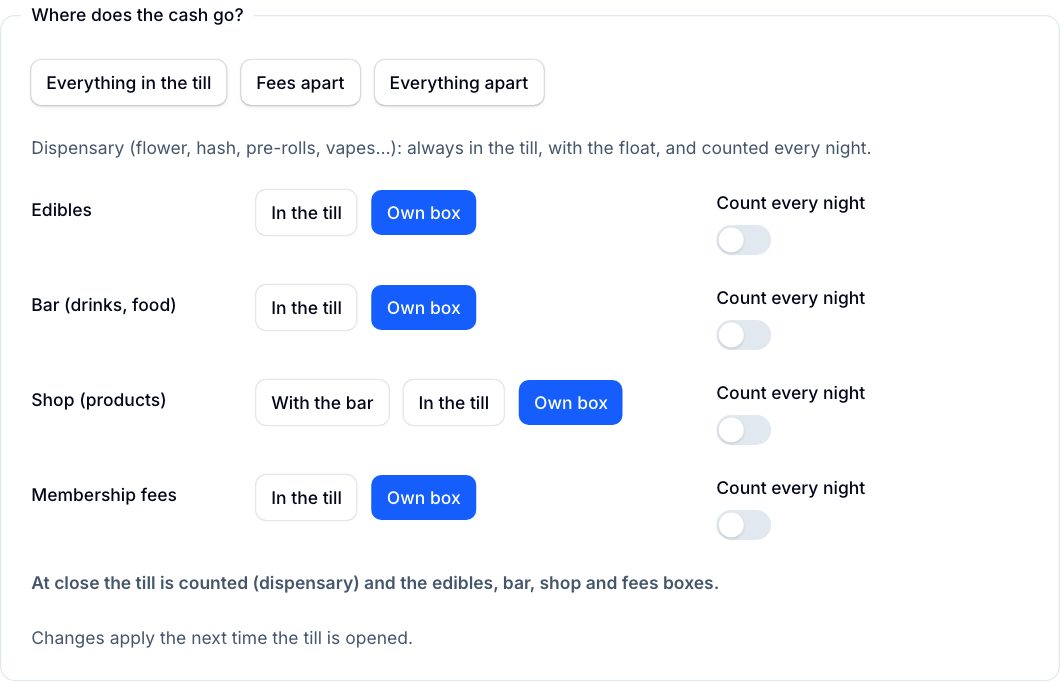
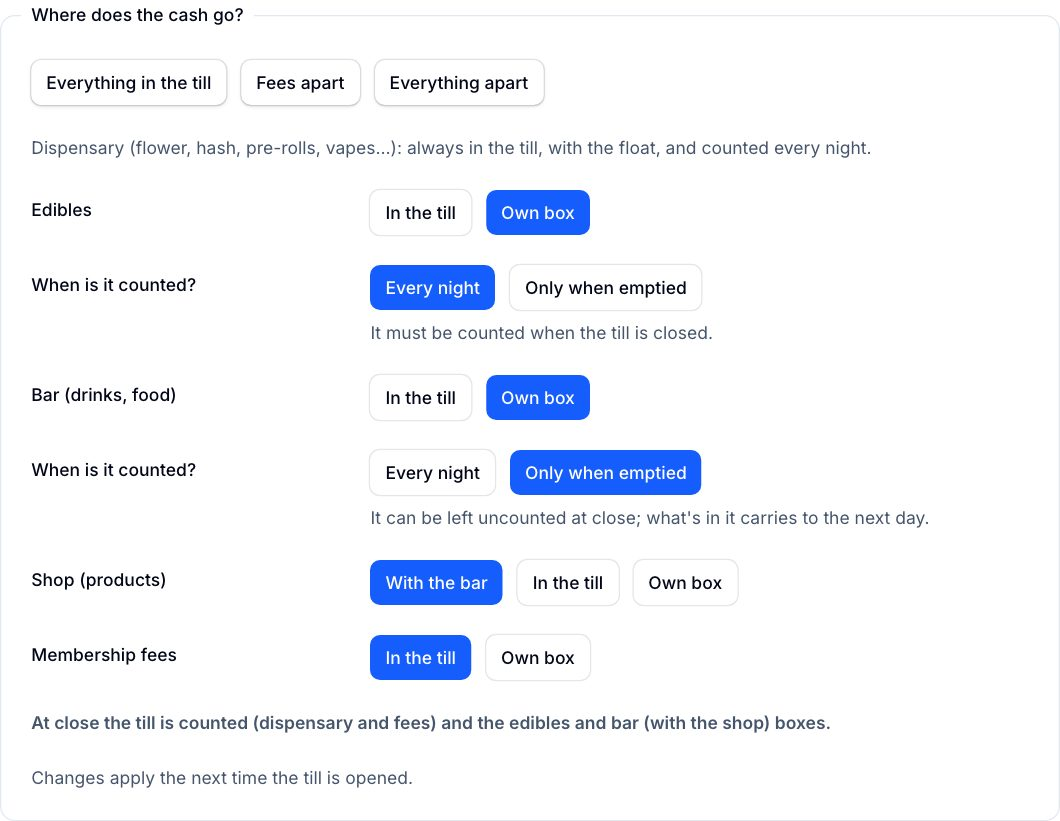
fix(locations): «¿Cuándo se cuenta? Cada noche · Solo al vaciarlo» under each own box, replacing the switch
- the counting choice sits under its row's buttons in the same two-button style, with a line that says what it means;
  hidden for «En la caja» and «Con la barra»; no switch left in the section
- the same count_*_nightly setting underneath (string state '1'/'0' on the buttons, a boolean saved); owner-only
- the close is unchanged and pinned: Cada noche starts on «Contar ahora», Solo al vaciarlo on «No se cuenta hoy»

Claude-Session: https://claude.ai/code/session_01JxcuX4zpbtLwRQJ9oHz38d

diff --git a/tests/Feature/Locations/CashCountChoiceTest.php b/tests/Feature/Locations/CashCountChoiceTest.php
@@ -1,0 +1,135 @@
+<?php
+
+namespace Tests\Feature\Locations;
+
+use App\Actions\Till\OpenTill;
+use App\Enums\Role;
+use App\Enums\SettingType;
+use App\Filament\Resources\Locations\Pages\EditLocation;
+use App\Livewire\Counter\TillSession as TillScreen;
+use App\Models\Location;
+use App\Models\Organisation;
+use App\Models\User;
+use App\Support\ActiveScope;
+use App\Support\CounterOperator;
+use App\Support\Settings;
+use Database\Seeders\RolePermissionSeeder;
+use Filament\Facades\Filament;
+use Filament\Forms\Components\ToggleButtons;
+use Illuminate\Foundation\Testing\RefreshDatabase;
+use Livewire\Livewire;
+use Tests\TestCase;
+
+/**
+ * Prompt 379 — Ben, on Dream Green's *Cajas*: "Toggle is confusing." A switch «Contar cada noche» in a far column, one per box,
+ * none saying what off means. Now, under a row on «Bote propio»: «¿Cuándo se cuenta?» «Cada noche» · «Solo al vaciarlo», with a
+ * line that says what each means. The same `count_*_nightly` setting underneath; the close is unchanged.
+ */
+class CashCountChoiceTest extends TestCase
+{
+    use RefreshDatabase;
+
+    private Organisation $org;
+
+    private Location $sede;
+
+    private User $owner;
+
+    protected function setUp(): void
+    {
+        parent::setUp();
+        app()->setLocale('es');
+        $this->seed(RolePermissionSeeder::class);
+        Filament::setCurrentPanel(Filament::getPanel('admin'));
+        $this->org = Organisation::factory()->create();
+        app(ActiveScope::class)->setOrganisation($this->org->id);
+        $this->sede = Location::factory()->create(['organisation_id' => $this->org->id, 'name' => 'Dream Green']);
+        app(ActiveScope::class)->setLocation($this->sede->id);
+        $this->owner = User::factory()->create(['pin' => '1234']);
+        $this->owner->assignRole(Role::OWNER->value);
+        $this->owner->locations()->sync([$this->sede->id]);
+        $this->actingAs($this->owner);
+    }
+
+    private function set(string $key, mixed $value, SettingType $type = SettingType::STRING): void
+    {
+        Settings::set($key, $value, $type, (string) $this->sede->id);
+    }
+
+    // --- 1. Render ---------------------------------------------------------------------------------------------------------------
+
+    public function test_a_box_of_its_own_shows_when_it_is_counted_as_two_buttons_and_no_switch(): void
+    {
+        $this->set('cash_box_fees', 'own');
+
+        Livewire::test(EditLocation::class, ['record' => $this->sede->id])
+            ->assertFormFieldExists('count_fees_nightly', fn ($field): bool => $field instanceof ToggleButtons)
+            ->assertFormFieldIsVisible('count_fees_nightly')
+            ->assertSee('¿Cuándo se cuenta?')->assertSee('Cada noche')->assertSee('Solo al vaciarlo')
+            ->assertSeeHtml('data-cash-count-choice="FEES"')
+            ->assertDontSee('Contar cada noche');
+    }
+
+    // --- 2. Saving --------------------------------------------------------------------------------------------------------------
+
+    public function test_only_when_emptied_stores_false_and_every_night_true_and_the_page_shows_it_again(): void
+    {
+        $this->set('cash_box_fees', 'own');
+
+        Livewire::test(EditLocation::class, ['record' => $this->sede->id])->fillForm(['count_fees_nightly' => '0'])->call('save')->assertHasNoFormErrors();
+        $this->assertFalse((bool) Settings::get('count_fees_nightly', true, (string) $this->sede->id));
+        Livewire::test(EditLocation::class, ['record' => $this->sede->id])->assertFormSet(['count_fees_nightly' => '0'])
+            ->assertSee('Al cerrar se puede dejar sin contar; lo que tiene pasa al día siguiente.');
+
+        Livewire::test(EditLocation::class, ['record' => $this->sede->id])->fillForm(['count_fees_nightly' => '1'])->call('save')->assertHasNoFormErrors();
+        $this->assertTrue((bool) Settings::get('count_fees_nightly', false, (string) $this->sede->id));
+        Livewire::test(EditLocation::class, ['record' => $this->sede->id])->assertFormSet(['count_fees_nightly' => '1'])
+            ->assertSee('Al cerrar la caja hay que contarlo.');
+    }
+
+    // --- 3. Visibility ----------------------------------------------------------------------------------------------------------
+
+    public function test_in_the_till_or_with_the_bar_there_is_nothing_to_count_so_the_choice_hides(): void
+    {
+        $this->set('cash_box_fees', 'own');
+        $this->set('cash_box_shop', 'own');
+
+        Livewire::test(EditLocation::class, ['record' => $this->sede->id])
+            ->assertFormFieldIsVisible('count_fees_nightly')
+            ->fillForm(['cash_box_fees' => 'till'])->assertFormFieldIsHidden('count_fees_nightly')
+            ->assertFormFieldIsVisible('count_shop_nightly')
+            ->fillForm(['cash_box_shop' => 'with_bar'])->assertFormFieldIsHidden('count_shop_nightly');
+    }
+
+    // --- 4. The close is unchanged ---------------------------------------------------------------------------------------------
+
+    public function test_the_close_starts_on_count_now_for_every_night_and_on_not_today_for_only_when_emptied(): void
+    {
+        $this->set('cash_box_fees', 'own');
+        $this->set('cash_box_bar', 'own');
+        $this->set('count_fees_nightly', true, SettingType::BOOL);
+        $this->set('count_bar_nightly', false, SettingType::BOOL);
+        (new OpenTill)->handle($this->sede, 'Caja 1', 10000, ['operator_id' => $this->owner->id]);
+        session(['counter.location_id' => $this->sede->id]);
+        CounterOperator::set($this->owner);
+
+        Livewire::test(TillScreen::class)->call('startClose')
+            ->assertSet('potCountNow.FEES', true)   // Cada noche: it is counted at the close
+            ->assertSet('potCountNow.BAR', false);  // Solo al vaciarlo: it may be left; its balance carries
+    }
+
+    // --- 5. Owner-only ---------------------------------------------------------------------------------------------------------
+
+    public function test_a_manager_sees_both_choices_disabled(): void
+    {
+        $this->set('cash_box_fees', 'own');
+        $manager = User::factory()->create();
+        $manager->assignRole(Role::MANAGER->value);
+        $manager->locations()->sync([$this->sede->id]);
+        $this->actingAs($manager);
+
+        Livewire::test(EditLocation::class, ['record' => $this->sede->id])
+            ->assertFormFieldIsDisabled('cash_box_fees')
+            ->assertFormFieldIsDisabled('count_fees_nightly');
+    }
+}

diff --git a/app/Filament/Resources/Locations/Schemas/LocationForm.php b/app/Filament/Resources/Locations/Schemas/LocationForm.php
@@ -149,9 +149,9 @@ class LocationForm
     ];
 
     /**
-     * Prompt 373 — one kind of money: «En la caja» / «Bote propio» (two big buttons, the same as *Ajuste*), its «Contar cada
-     * noche» beside it only for its own box, and — switching a box that still holds money into the till — the warning that
-     * opening the next till will merge it.
+     * Prompt 373 — one kind of money: «En la caja» / «Bote propio» (two big buttons, the same as *Ajuste*), WHEN its own box is
+     * counted beneath it (379: «Cada noche» / «Solo al vaciarlo», replacing the switch), and — switching a box that still holds
+     * money into the till — the warning that opening the next till will merge it.
      *
      * @return list<Component>
      */
@@ -161,25 +161,33 @@ class LocationForm
         $count = CashBoxes::COUNT_NIGHTLY[$pot];
 
         return [
-            // Prompt 374 — one row per kind of money from md up: the label and its two choices side by side, «Contar cada
-            // noche» beside them (stacked below md, where there is no room).
-            Grid::make(['default' => 1, 'md' => 3])->schema([
-                ToggleButtons::make($key)
-                    ->label($label)
-                    // Prompt 378 — the shop alone may also go «Con la barra» (the default: wherever the bar's money goes).
-                    ->options(array_intersect_key(['with_bar' => __('Con la barra'), 'till' => __('En la caja'), 'own' => __('Bote propio')], array_flip(CashBoxes::choicesFor($pot))))
-                    ->default(CashBoxes::defaultFor($pot))
-                    ->inline()
-                    ->inlineLabel()
-                    ->columnSpan(['default' => 1, 'md' => 2])
-                    ->live()
-                    ->disabled(fn (): bool => ! self::actorIsOwner()),
-                Toggle::make($count)
-                    ->label(__('Contar cada noche'))
-                    ->inline(false)
-                    ->visible(fn (Get $get): bool => $get($key) === 'own')
-                    ->disabled(fn (): bool => ! self::actorIsOwner()),
-            ]),
+            // Prompt 379 (Ben: "Toggle is confusing") — one column: the row's choices, and — only when it has its own box — WHEN
+            // it is counted, directly beneath and aligned with them, in the same two-button style. No switch in a far column.
+            // The same `count_*_nightly` setting underneath (Cada noche = true), so nothing about the close changes.
+            ToggleButtons::make($key)
+                ->label($label)
+                // Prompt 378 — the shop alone may also go «Con la barra» (the default: wherever the bar's money goes).
+                ->options(array_intersect_key(['with_bar' => __('Con la barra'), 'till' => __('En la caja'), 'own' => __('Bote propio')], array_flip(CashBoxes::choicesFor($pot))))
+                ->default(CashBoxes::defaultFor($pot))
+                ->inline()
+                ->inlineLabel()
+                ->live()
+                ->disabled(fn (): bool => ! self::actorIsOwner()),
+            ToggleButtons::make($count)
+                ->label(__('¿Cuándo se cuenta?'))
+                // '1' / '0' (what the buttons post), read from and saved back to the boolean setting.
+                ->options(['1' => __('Cada noche'), '0' => __('Solo al vaciarlo')])
+                ->formatStateUsing(fn (mixed $state): string => (bool) $state ? '1' : '0')
+                ->dehydrateStateUsing(fn (mixed $state): bool => (string) $state === '1')
+                ->inline()
+                ->inlineLabel()
+                ->live()
+                ->extraAttributes(['data-cash-count-choice' => $pot])
+                ->helperText(fn (Get $get): string => (string) $get($count) === '1'
+                    ? __('Al cerrar la caja hay que contarlo.')
+                    : __('Al cerrar se puede dejar sin contar; lo que tiene pasa al día siguiente.'))
+                ->visible(fn (Get $get): bool => $get($key) === 'own')
+                ->disabled(fn (): bool => ! self::actorIsOwner()),
             Text::make(fn (Get $get, ?Location $record): ?string => $get($key) !== 'own' && $record !== null ? CashBoxes::mergeWarning($record, CashPot::from($pot)) : null)
                 ->color('warning')
                 ->weight(FontWeight::SemiBold)

diff --git a/resources/guides/en/cash-at-the-counter.md b/resources/guides/en/cash-at-the-counter.md
@@ -155,7 +155,7 @@ Costs that are **not** paid from the drawer (rent, utilities, suppliers paid by 
 
 Closing a till is never blocked by a difference, so this report is where you find them. Tick **Only with a difference** to list only the closes beyond the club's tolerance; **Unexplained** (in amber) marks the ones closed without a note. Click a session's date to open the till, which starts with **Difference at close**: every pot's expected, counted and difference, the note (or *No note*) and the flower count's answer (or *No reason*). The Dashboard and the morning email say *"Closes with an unexplained difference: N this week"*, linking straight here.
 
-**Where the cash goes** (*Locations → [club] → Tills*, owners only; managers see it read-only). The dispensary is always in the till. For **Edibles**, **Bar (drinks, food)** and **Membership fees**, choose **In the till** or **Own box**, and for a box whether to **Count every night**. **Shop (products)** has a third choice, **With the bar** (the starting point): the shop's money goes wherever the bar's goes. Which products are the shop's is set on each product (*Sold at*). Three buttons set the usual shapes in one tap: **Everything in the till**, **Fees apart** (the shop stays with the bar), **Everything apart** (the shop gets its own box too). A sentence under the rows says what will be counted at closing, for example *"At close the till is counted (dispensary) and the edibles, bar, shop and fees boxes."* Changes apply the next time a till is opened.
+**Where the cash goes** (*Locations → [club] → Tills*, owners only; managers see it read-only). The dispensary is always in the till. For **Edibles**, **Bar (drinks, food)** and **Membership fees**, choose **In the till** or **Own box**. A row on **Own box** then asks **When is it counted?**: **Every night** (it must be counted when the till is closed; the close starts on *Count now*) or **Only when emptied** (it can be left uncounted at close, and what's in it carries to the next day). **Shop (products)** has a third choice, **With the bar** (the starting point): the shop's money goes wherever the bar's goes. Which products are the shop's is set on each product (*Sold at*). Three buttons set the usual shapes in one tap: **Everything in the till**, **Fees apart** (the shop stays with the bar), **Everything apart** (the shop gets its own box too). A sentence under the rows says what will be counted at closing, for example *"At close the till is counted (dispensary) and the edibles, bar, shop and fees boxes."* Changes apply the next time a till is opened.
 
 - **A mixed bar sale is split by itself.** A €3.00 drink and a €12.00 T-shirt paid in cash: the counter says *"Put €12.00 in the shop box and €3.00 in the bar box."* Cash pays for the shop's items first; anything paid from the wallet covers the rest.
 
@@ -192,7 +192,8 @@ Closing a till is never blocked by a difference, so this report is where you fin
 | Seguir sin motivo | Continue without a reason |
 | Solo con diferencia · Sin explicar | Only with a difference · Unexplained |
 | Diferencia en el cierre · Sin nota · Sin motivo | Difference at close · No note · No reason |
-| ¿Dónde va el efectivo? · En la caja · Bote propio · Contar cada noche | Where does the cash go? · In the till · Own box · Count every night |
+| ¿Dónde va el efectivo? · En la caja · Bote propio · Con la barra | Where does the cash go? · In the till · Own box · With the bar |
+| ¿Cuándo se cuenta? · Cada noche · Solo al vaciarlo | When is it counted? · Every night · Only when emptied |
 | Todo en la caja · Cuotas aparte · Todo aparte | Everything in the till · Fees apart · Everything apart |
 | Motivo | Reason |
 | Cambio de turno · Entregar la caja | Shift change · Hand over the till |

diff --git a/resources/guides/en/manager-guide.md b/resources/guides/en/manager-guide.md
@@ -228,7 +228,7 @@ Before the reserve existed, each evening count took the sealed bags out of stock
 |---|---|
 | **After recording** | Where the counter goes after a sale: back to the home screen (the default), a new member in the dispensary, or stay with the member. |
 | **Strain order in the dispensary** | Price, highest first (the default); price, lowest first; or alphabetical. Staff can still switch it with €↓ / €↑ / A–Z for the day. |
-| **Where does the cash go?** (owners) | The dispensary is always in the till; edibles, bar & shop and fees each go in the till or their own box, with *Count every night* per box. Presets: *Everything in the till*, *Fees apart*, *Everything apart*. See the *Cash at the counter* guide. |
+| **Where does the cash go?** (owners) | The dispensary is always in the till; edibles, the bar, the shop and fees each go in the till or their own box (the shop can also go *With the bar*), and each own box says *When is it counted?*: *Every night* or *Only when emptied*. Presets: *Everything in the till*, *Fees apart*, *Everything apart*. See the *Cash at the counter* guide. |
 | **Require a photo to dispense** | A member with no photo must have one taken before being served (on by default). |
 | **Confirm the photo on scan** | Scanning a card shows the member's photo big, to confirm it's them (on by default). |
 | **Show Reception on the counter** | Turn off at clubs that do not check people in at the door. A New member tile takes its place. |
@@ -272,7 +272,7 @@ Before the reserve existed, each evening count took the sealed bags out of stock
 | Batches expiring soon, and slow sellers | Use them before they expire, or adjust the price | **Dashboard** alerts · **Batches** |
 | Members with fees owed, and memberships ending | Chase or renew before they are blocked at the counter | **Reports → Debtors** · **Members** |
 | Stock count at each location (weekly or monthly) | Catch differences early | **Stock count** |
-| Count each cash box (if not counted nightly) | Its money carries forward until someone counts it | Counter **Close till** · **Reports → Tills** |
+| Count each cash box counted *Only when emptied* | Its money carries forward until someone counts it | Counter **Close till** · **Reports → Tills** |
 | Cards used by someone else | Reissue the card, and talk to the member | Member records |
 
 ![Reports → Staff hours: hours per person and location, and when people worked.](img/manager-guide/c15.jpg)

diff --git a/DECISIONS.md b/DECISIONS.md
@@ -22174,3 +22174,31 @@ physically goes.
 1. Run `php artisan migrate --force`.
 2. In *Barra y tienda → Productos*, filter and mark the shop items *Tienda* with the bulk action.
 3. In each sede's *Cajas*, set *Tienda* to *Bote propio* where the shop's money is kept apart, or tap *Todo aparte*.
+
+## Prompt 379 — *¿Dónde va el efectivo?*: when a box is counted, as two buttons under its row
+
+Ben, on Dream Green's *Cajas*: *"Toggle is confusing."* The *Contar cada noche* switch sat in a far column, one identical
+switch per box down the right edge, and nothing said what off meant.
+
+- **What replaced it:** under a row on *Bote propio*, aligned with its buttons, the same two-button style asks
+  *¿Cuándo se cuenta?* *Cada noche* · *Solo al vaciarlo*, with a help line that follows the choice:
+  - *«Al cerrar la caja hay que contarlo.»*
+  - *«Al cerrar se puede dejar sin contar; lo que tiene pasa al día siguiente.»*
+  It is hidden for *En la caja* and *Con la barra*. The third grid column and every `Toggle` in the section are gone.
+- **The same settings underneath:** `count_*_nightly`, true for *Cada noche*. No migration, and the current values show
+  as they are.
+  - The buttons post `'1'` / `'0'`. The field formats the stored boolean into that and dehydrates it back to a boolean
+    for the existing owner-only save.
+  - A `false` state would otherwise fail the options' `in` rule, which a real save from the form would also have hit.
+- **Owner-only as before:** a manager sees both choices disabled.
+- **The close is unchanged and pinned by a test.** *Cada noche* starts the close on *Contar ahora*; *Solo al vaciarlo*
+  starts on *No se cuenta hoy*.
+  - **For Ben:** as before 379, *Cada noche* is the close's default, not a lock. Staff can still tap *No se cuenta hoy*,
+    and the box then carries.
+  - The help line "hay que contarlo" is the prompt's wording. Making *Cada noche* refuse the skip would be a small
+    behaviour change for Ben to ask for.
+- **Tests:** `tests/Feature/Locations/CashCountChoiceTest.php` (5). Render (no switch) and saving were red against the
+  switch. The others cover visibility, the close and the manager denial.
+- **Browser:** `prove-379-count-choice.mjs` (20/20) at 1440 and 393, light and dark: edibles *Cada noche*, bar *Solo al
+  vaciarlo*, fees *En la caja*.
+- The guide's *Cajas* screenshot was recaptured.
